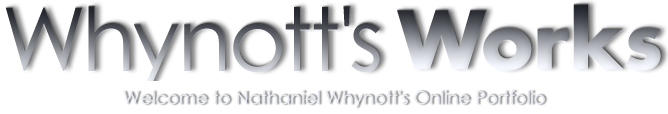
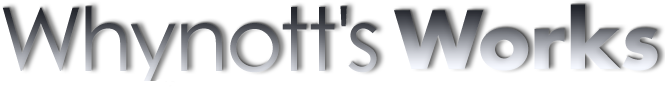
updated

diff --git a/css/nw09_2.css b/css/nw09_2.css
@@ -65,7 +65,7 @@ main {min-width: 0}
 #wrapper2 { 
 margin: 1rem auto 0;
 padding-top: 1rem;
-background-color: #222;}
+background-color: #fff;}
 
 #navBar {
 display: block;
@@ -264,9 +264,7 @@ No media query for `xs` since this is the default in Bootstrap
 	
 #gallery > .standard {margin-bottom: 1rem}
 
-#gallery .thumbnails {margin-top: 1rem}
-	
-#content { background-color: #cacbce}  
+#gallery .thumbnails {margin-top: 1rem} 
 
 #thumbnails, #thumbnails2 {margin-top: .5rem;  width: 100%}
 
@@ -316,13 +314,13 @@ flex: none;
 .dropdown-item a {color: #7080B2 !important; border:0}
 
 a.nav-link, .navbar-light .navbar-nav .nav-link {
-color: #fff !important;
+color: #7080B2 !important;
 border: 0;
 padding-top: 0;
 padding-bottom: 0;
 font-size: 1.125rem;
 font-weight: 300;
-text-shadow: 1px 0 1px rgba(0, 0, 0, 1)}
+text-shadow: 1px 0 1px rgba(0, 0, 0, .12)}
 
 .navbar-nav .dropdown .caret { color:#e0e8ff !important;}
 
